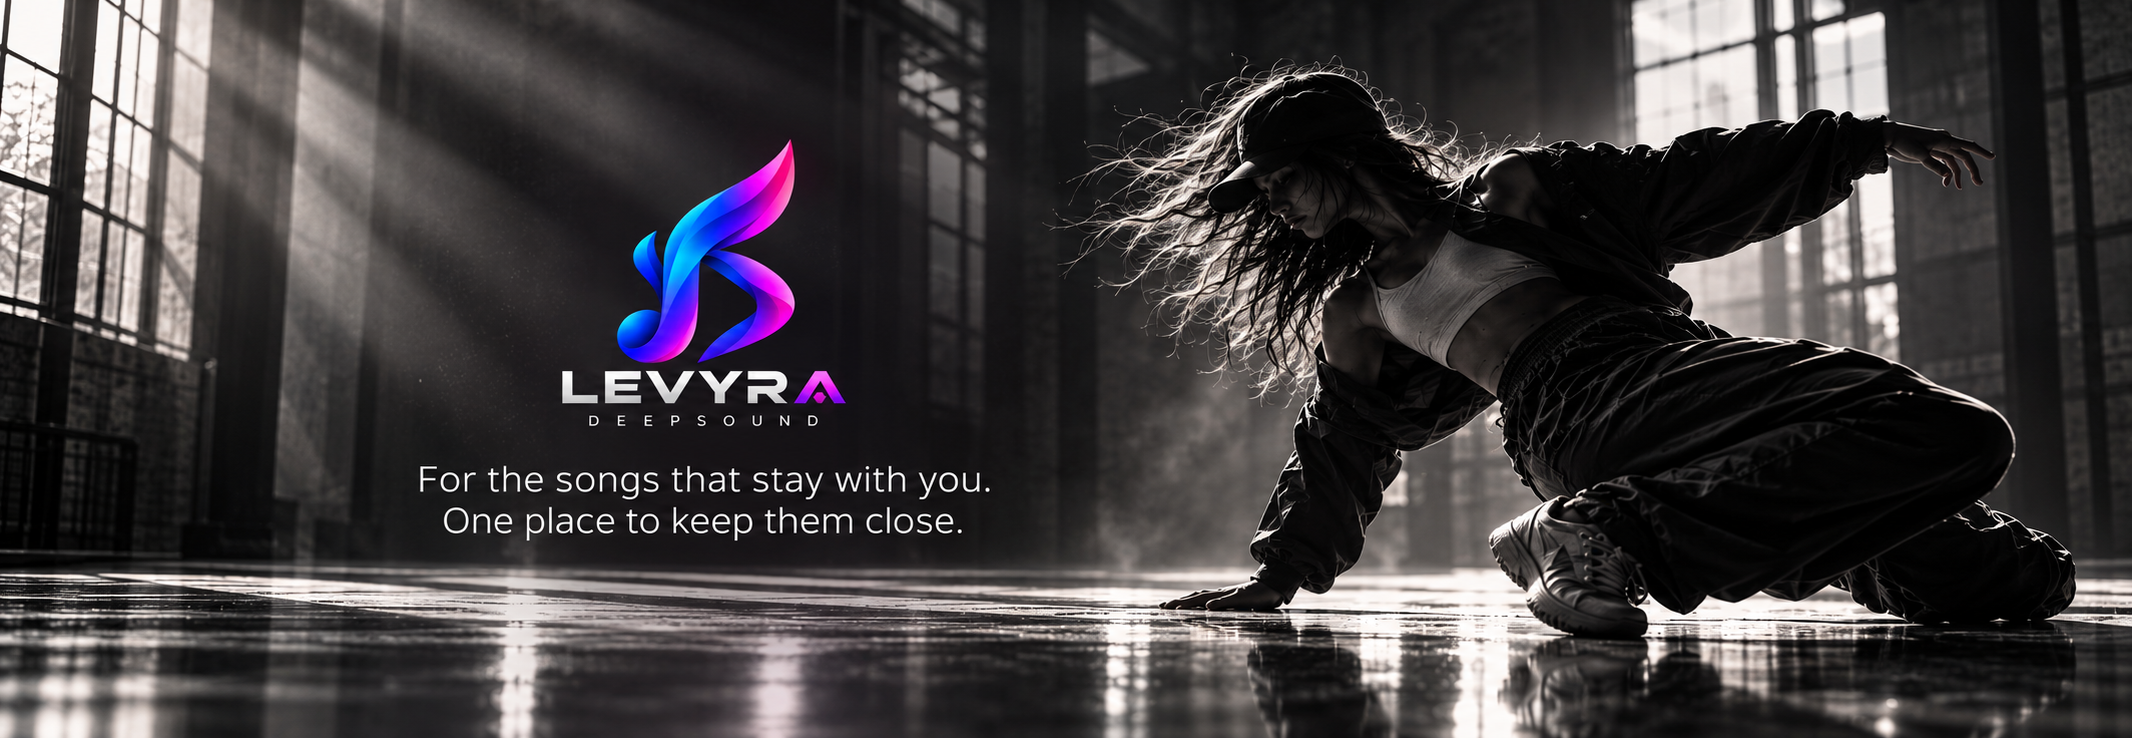
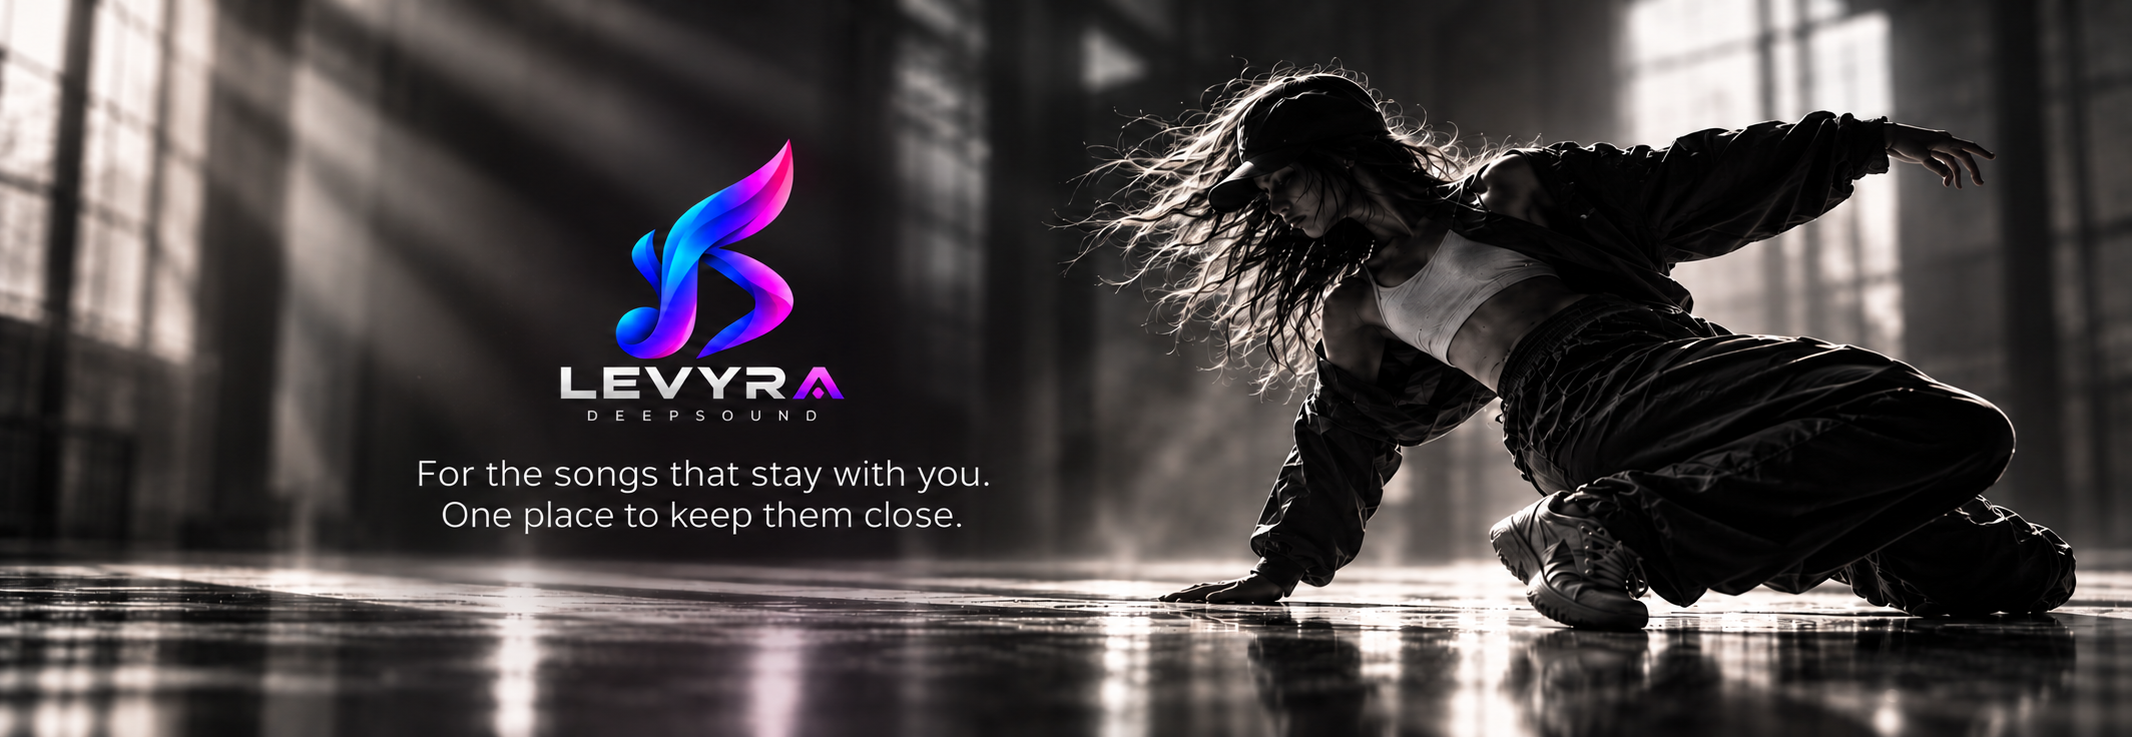
docs: refresh README dance hero

diff --git a/README.md b/README.md
@@ -118,7 +118,7 @@ Enhanced Audio is on by default and can be turned off in Audio Settings. Technic
 
 <div align="center">
 
-<a href="docs/assets/showcase/00_levyra_hero_dance_studio.webp"><img src="docs/assets/showcase/00_levyra_hero_dance_studio.webp?v=loft-editorial-v9" width="100%" alt="Levyra music player for Android and Windows" /></a>
+<a href="docs/assets/showcase/00_levyra_hero_dance_studio.webp"><img src="docs/assets/showcase/00_levyra_hero_dance_studio.webp?v=light-shadow-v10" width="100%" alt="Levyra music player for Android and Windows" /></a>
 
 <p align="center">
   <sub>Browse radio and charts, open an artist, switch to video or follow synced lyrics. Your listening stats stay on your device.</sub>
